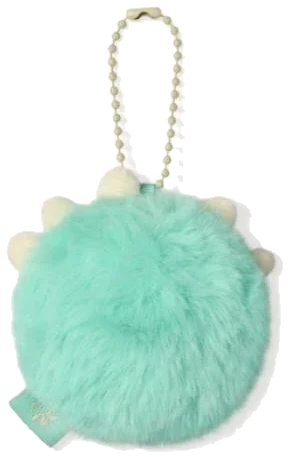
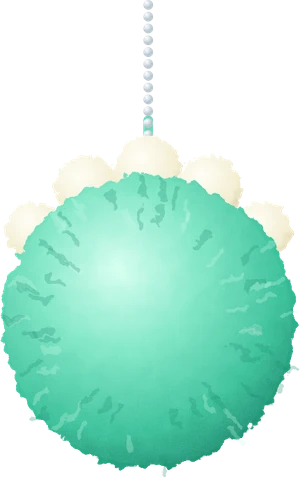
Ball: thay ảnh chụp thật bằng hình Ball vẽ (lông xù, mặt vector)

diff --git a/src/ui/checkin.css b/src/ui/checkin.css
@@ -136,16 +136,16 @@
 .bl-cell{position:relative;aspect-ratio:1;border-radius:20px;display:grid;place-items:center;overflow:hidden;border:2px solid var(--line);background:var(--paper);padding:0;color:inherit;font:inherit}
 .bl-cell b{position:absolute;left:0;right:0;bottom:8px;text-align:center;font-size:12px;font-weight:800;color:var(--soft)}
 .bl-cell.on{border-color:#8fe3c9;background:radial-gradient(circle at 50% 42%,#e9fff6,#c5f0e0 70%);box-shadow:0 6px 18px rgba(80,200,160,.3)}
-.bl-cell.on img{width:78%;height:78%;object-fit:cover;border-radius:50%;margin-bottom:14px}
+.bl-cell.on img{width:74%;height:74%;object-fit:contain;margin-bottom:16px;filter:drop-shadow(0 6px 10px rgba(15,107,85,.35))}
 .bl-cell.on b{color:#1f6b54}
 .bl-cell.off{background:linear-gradient(160deg,#1c1840,#0f0c28);border-color:#2b2660}
 .bl-cell.off b{color:#6f6aa8}
 .bl-q{font-size:44px;font-weight:900;color:#3a3470;margin-bottom:16px}
 .bl-fx{position:absolute;inset:0;pointer-events:none;background:radial-gradient(circle at 30% 25%,rgba(255,255,255,.7),transparent 45%);animation:blglow 3.2s ease-in-out infinite alternate}
-.bl-big{position:relative;width:230px;height:230px;margin:6px auto 4px;border-radius:50%;overflow:hidden;background:radial-gradient(circle,#e9fff6,#9fe6cf);box-shadow:0 0 36px rgba(110,230,190,.65)}
-.bl-big img{width:100%;height:100%;object-fit:cover;display:block}
+.bl-big{position:relative;width:230px;height:230px;margin:6px auto 4px;border-radius:50%;overflow:hidden;background:radial-gradient(circle,#e9fff6,#9fe6cf);box-shadow:0 0 36px rgba(110,230,190,.65);padding:16px;box-sizing:border-box}
+.bl-big img{width:100%;height:100%;object-fit:contain;display:block}
 .bl-gi{overflow:hidden;padding:0;background:radial-gradient(circle,#e9fff6,#9fe6cf);box-shadow:0 0 24px rgba(110,230,190,.7)}
-.bl-gi img{width:100%;height:100%;object-fit:cover;border-radius:inherit}
+.bl-gi img{width:88%;height:88%;object-fit:contain}
 @keyframes blglow{from{opacity:.35}to{opacity:.9}}
 @media (prefers-reduced-motion:reduce){.bl-fx{animation:none!important}}
 
